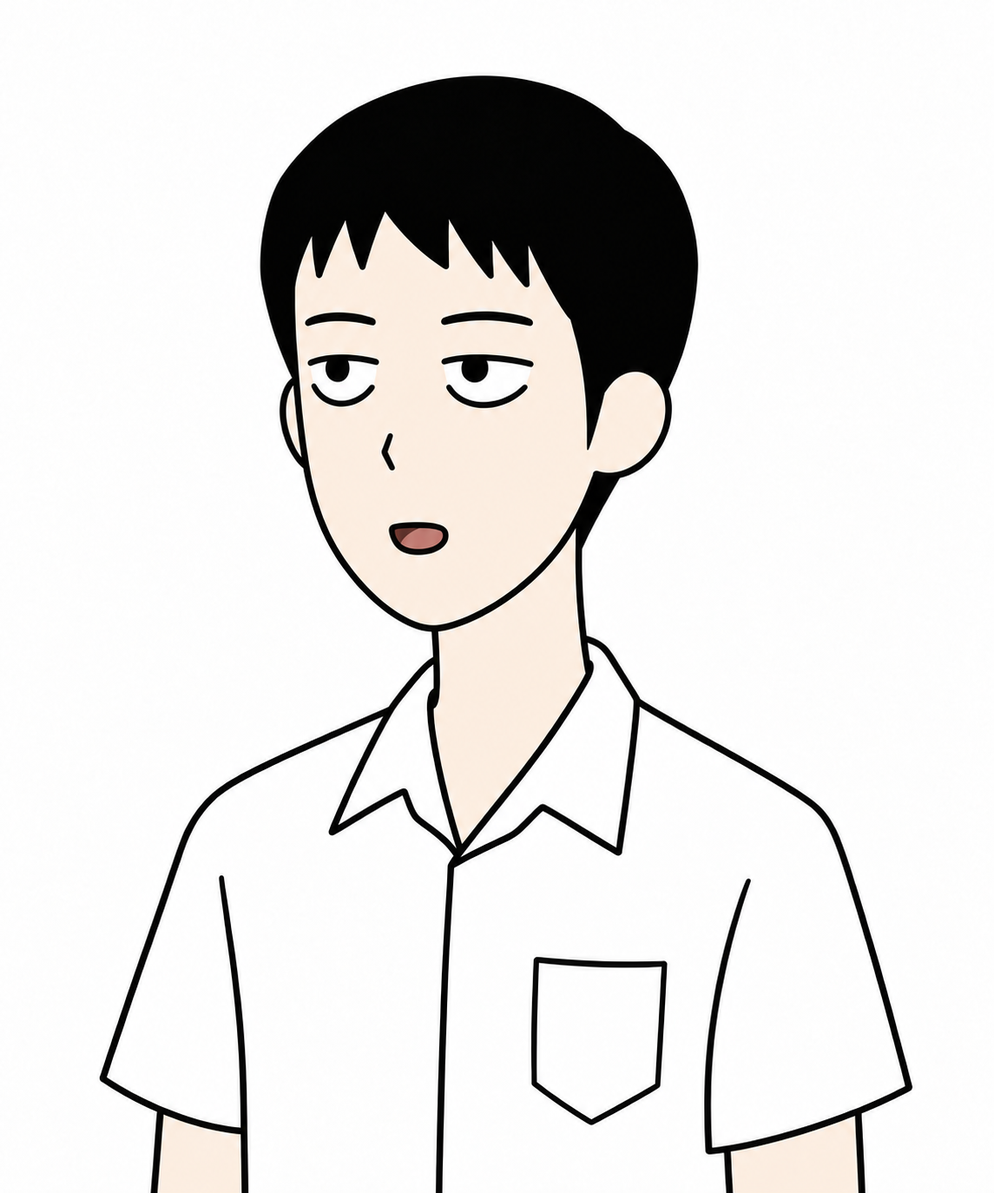
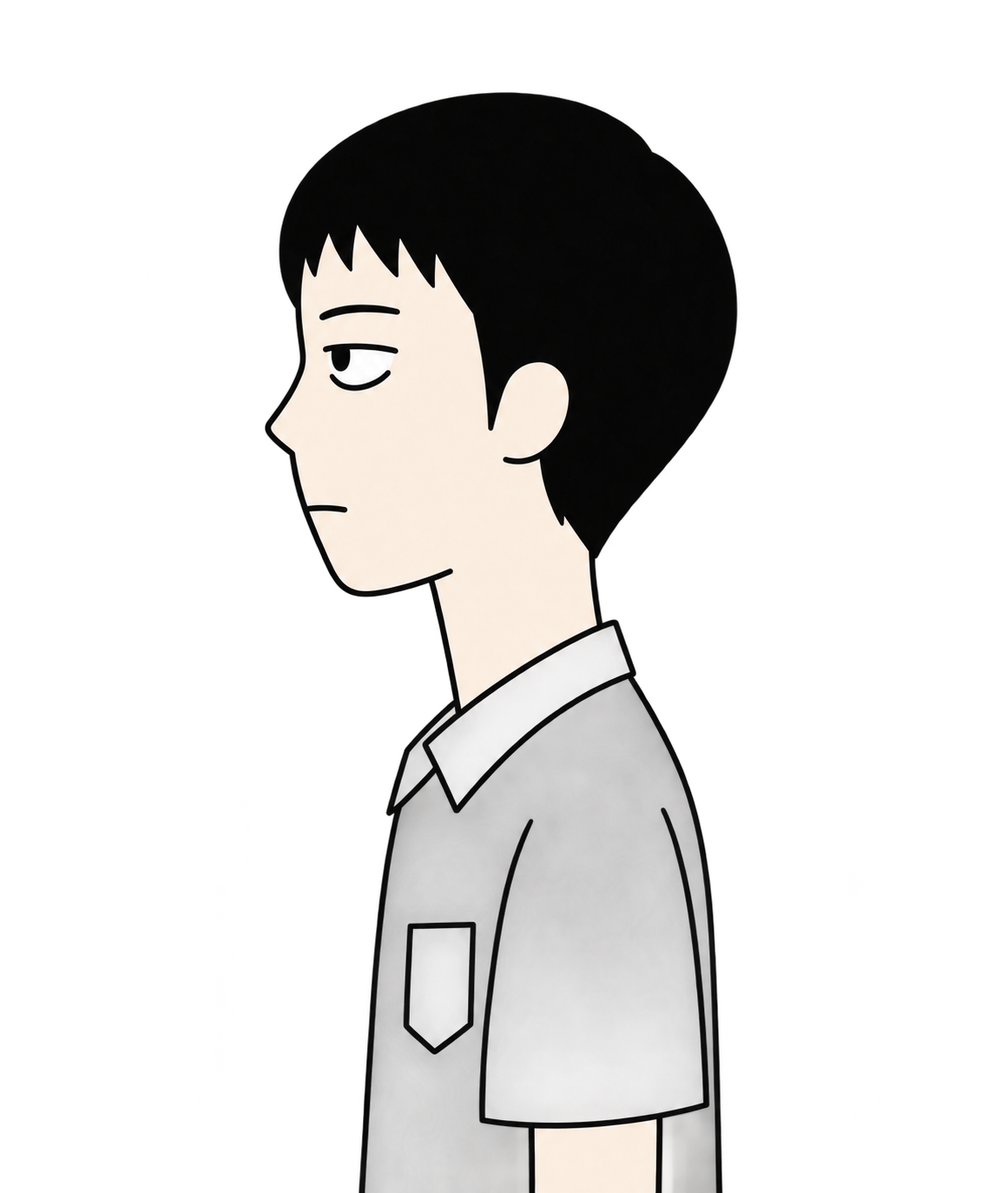
update

diff --git a/PROJECT_STATE.md b/PROJECT_STATE.md
@@ -1,0 +1,165 @@
+# Project state and recovery handoff
+
+Handoff date: 2026-09-18 (Asia/Bangkok). Repository HEAD at audit: `4a23550`.
+Current project root: `D:\Projects\cartoons-firm-ai-generated`.
+The former root `D:\Personals\Projects\Films\Cartoons` is obsolete and must not be used operationally.
+
+## Purpose and authority
+
+Produce reusable visual assets, then animated shots, from 36 source comic/storyboard panels. The shot plan contains 66 shots grouped into 14 narrative scenes, with a provisional estimated runtime of 401.9 seconds. `06_scenes.json` contains 36 panel-level scene records; this differs intentionally from the narrative-scene grouping.
+
+`11_asset_manifest.json` is the primary authority for current asset IDs and statuses. Review files preserve human-review history but several have not been synchronized. Approved generated masters govern stable character identity and location continuity; source panels govern story-specific staging, pose, directionality, props, and emotion. Preserve approved identity when incidental source variation conflicts, unless the human requests a source-specific variant.
+
+Workflow: NOT_GENERATED -> GENERATED -> APPROVED. Generated assets require human review. Never auto-approve or modify approved assets without explicit human instruction. Generate only the requested asset and stop. Action references normally contain one character and minimal supporting furniture/props, not a complete scene. Add environments and other characters during shot blocking. Defer speed streaks, wind, dust, and motion accents to shots/video unless an FX asset is specifically requested. Reuse approved props and locations. Use deterministic compositing for important readable text. Do not invent dialogue for [INDISTINCT CHATTER].
+
+## Current production stage
+
+Stage 6 (secondary props) is partially complete. Stages 1-5 and inserted hospital continuity stage 3.5 are APPROVED according to the manifest. This is an asset-production checkpoint, not evidence of completed animated shots.
+
+| Stage | Scope | Manifest state |
+| --- | --- | --- |
+| 1 | Ah Lim and Ah Da young/afterlife masters | 14 approved |
+| 2 | Classroom and desk/chair lock | 6 approved |
+| 3 | Pilot support | 5 approved |
+| 3.5 | Elderly Ah Lim portrait/bed pose and hospital staff | 3 approved |
+| 4 | Remaining locations and canteen table set | 7 approved |
+| 5 | Six supporting portrait/action packs | 12 approved |
+| 6 | Secondary props | 2 approved, 2 generated, 3 not generated |
+
+Total: **54 manifest assets: 48 APPROVED, 3 GENERATED, 3 NOT_GENERATED**. Counts are manifest states, not a fresh approval or a guarantee of file correctness.
+
+## Audit findings — unresolved, no fixes applied
+
+1. **Watch deferred:** `PROP_01_WATCH` was reset from an invalid GENERATED state to `NOT_GENERATED` because its expected output and review files were missing after migration. It remains a low-priority deferred prop; no asset was regenerated. Regenerate only if SHOT_013 or SHOT_054 later requires a visible watch.
+2. **Profile repair completed:** The old approved `profile_left.png` was an accidental duplicate of `face_3q_talking.png`; it was preserved as `profile_left_obsolete_duplicate.png`. The corrected true viewer-left profile was human-reviewed and restored to `APPROVED` for `CHAR_01_PROFILE_LEFT`. The obsolete backup remains non-canonical.
+3. **Outdated reviews:** all seven Ah Lim stage-1 master reviews and six Ah Da stage-1 reviews (all except seated-neutral) still state GENERATED or REVIEW_REQUIRED despite APPROVED manifest status. Treat them as stale history, not authority to revoke approval. Their exact IDs are listed below. `LOC_01_FRONT` also retains a superseded approval-required sentence inside a review that records explicit approval.
+4. **Obsolete visitor assets:** `assets/extras/hospital_visitors/group.png` and `group_review.md` are unreferenced remnants. They are not canonical or part of the pending manifest queue. Preserve them on disk. `EXTRA_HOSPITAL_STAFF_GROUP` is approved and present. Visitor wording also survives in `06_scenes.json`, hospital shots in `07_shot_list.md`/`08_shot_list.json`, `10_asset_design_plan.md`, and the bed/tubing review.
+5. **Stale identity mapping:** `03_character_bible.md`, `06_scenes.json`, `07_shot_list.md`, `08_shot_list.json`, `10_asset_design_plan.md`, and `12_generation_queue.md` still map Kim Fook to CHAR_08 and Anna to CHAR_09. Current manifest and files correctly map Anna to CHAR_08, with no CHAR_09 entries or folder. Kim Fook remains in source panel 25 / SHOT_044 but has no current dedicated manifest pack. This is an unresolved coverage/mapping gap, not authorization to reuse Anna or create CHAR_09.
+6. **Stale queue:** `12_generation_queue.md` still lists every planned entry as NOT_GENERATED, includes obsolete Kim Fook/CHAR_09 paths, and omits the inserted elderly/staff assets. Use its stage order only after checking the current manifest; do not execute it literally.
+7. **Stale shot dependencies:** examples in the manifest/queue include attendance paper assigned SHOT_012 although the roll-call panel is SHOT_011; watch assigned SHOT_013/054 although watch panels 10/31 map to SHOT_018/019 and SHOT_057/058; LOC_02 includes SHOT_041 (May/classroom) instead of Li Jie's SHOT_042/043; gate includes SHOT_057/058 (canteen) while gate panel 32 starts SHOT_059. Validate dependencies against source panels and the shot list before shot work. SHOT_044's LOC_01 assignment also needs source-specific railing staging review.
+8. **Stale descriptive notes:** CHAR_05_PORTRAIT's manifest notes describe a curled mattress action although its name/path/review establish a portrait. Some approved May, Li Jie, and meal entries retain 'human approval required' wording. Explicit status remains authoritative.
+9. **Whiteboard approved:** `PROP_09_WHITEBOARD` is now APPROVED. Its source text matches `36.jpg`, geometry is acceptable, and the source-ambiguous `5l` class glyph was accepted by human review.
+10. **Downstream planning is provisional:** vignette `narration_exact` fields point to the transcript rather than containing final narration, and several lengthy captions have short provisional shot durations. Do not treat the runtime estimate as a finalized narrated cut. `05_continuity_report.md` also contains a farewell description inconsistent with the shot list (it says the guide departs and the black-haired student remains at 33->35); check original panels before blocking.
+
+### Integrity and missing-review checks
+
+- All 49 approved output paths exist and are nonempty. All have corresponding review files.
+- Of two generated outputs, the whiteboard exists with a review; the watch and its review are missing.
+- The three NOT_GENERATED output files and their reviews are absent, as expected at that status: attendance paper, basketball/hoop, railing.
+- Assets directory contains 52 PNGs and 51 review files: 51 manifest-linked image/review pairs plus the obsolete visitor pair and the obsolete profile backup.
+- No duplicate manifest asset IDs or output paths. No duplicate canonical character identities found; young/elderly CHAR_01 are intentional variants. The one byte-duplicate image pair is described above.
+- All 36 numbered source panels exist. No obsolete operational root reference was found in the existing text files searched. Existing project files were left untouched.
+- Reviewed the twelve numbered production documents, the complete assets inventory, and all 51 review files. Parsed scene/shot/manifest JSON and checked file paths, statuses, duplicate hashes, and historical references. Targeted visual inspection covered the duplicated Ah Lim image, whiteboard, and source panel 36. This was not a new visual approval pass over every asset.
+
+## Historical corrections and continuity locks
+
+- CHAR_01 is Ah Lim; CHAR_02 is Ah Da. Young/afterlife Ah Lim and 90+ hospital Ah Lim are the same person with intentionally separate production references. Do not mix their age traits or remove the elderly references.
+- Jenny CHAR_03_ACTION is confirmed APPROVED in both manifest and review: blue outfit, ordinary classroom desk, exactly one handheld microphone.
+- Ah Guang: quiet window-directed seated action; no photography equipment; facial hatch marks are not identity features.
+- Huang Ming: pale brown short messy hair; peaceful curled side-lying action, head upper-right and legs lower-left as in panel 22; do not mirror. Temporary mattress support in the action does not replace the approved three-layer mattress prop.
+- May: black hair tied back, blue sleeveless outfit, intense desk crying.
+- Li Jie: youthful healthy appearance, exuberant leftward running/shouting; motion FX deferred.
+- Anna: CHAR_08, youthful tomboy, short sandy/light-brown spiky hair, blue sleeveless top, simplified athletic build; approved jump/reach action with one basketball. Do not glamorize/feminize or recreate CHAR_09.
+- Hospital staff replace the obsolete visitor interpretation. Keep staff anonymous and generic.
+- Classroom: board at front, windows left when facing board, door right. LOC_07 corridor is separate geometry. Approved reunion setup's minor blocking differences and field master's small goal detail were explicitly accepted; do not undo them.
+
+## Current update
+
+`PROP_07_BASKETBALL_HOOP` is now APPROVED at `assets/props/PROP_07_basketball_hoop/master.png`. Human approval covered its backboard geometry, rim and net, support structure, single basketball, school-court design, basketball-court visual-language compatibility, and suitability for `SHOT_045`.
+
+`PROP_08_RAILING` has been generated at `assets/props/PROP_08_railing/master.png` from manifest source `25.jpg` for `SHOT_044` and is awaiting human review. No other asset was generated.
+
+## Recommended next task
+
+First perform a human-directed recovery review of the missing watch and the duplicated approved Ah Lim profile, seeking the intended original files/backups before considering regeneration. Review the pending whiteboard and resolve its class-label ambiguity before approval. Reconcile stale identity/shot metadata in a separately authorized task before shot generation. None of these changes were performed during bootstrap.
+
+After those issues are resolved and the human explicitly selects one asset, the first ungenerated Stage 6 queue item is `PROP_02_ATTENDANCE_PAPER`; then `PROP_07_BASKETBALL_HOOP` and `PROP_08_RAILING` remain. Assess whether the approved court and Anna action already provide sufficient hoop/ball references before creating a redundant prop. Do not automatically advance this queue.
+
+## Exact manifest inventory at handoff
+
+The following tables are a snapshot; re-read the live manifest before acting. Paths are relative to the current project root.
+
+### APPROVED
+
+| Asset ID | Stage | Output path | File present |
+| --- | --- | --- | --- |
+| CHAR_01_FACE_FRONT_NEUTRAL | 1 | assets/characters/CHAR_01_Ah_Lim/masters/face_front_neutral.png | Yes |
+| CHAR_01_FACE_3Q_TALKING | 1 | assets/characters/CHAR_01_Ah_Lim/masters/face_3q_talking.png | Yes |
+| CHAR_01_PROFILE_LEFT | 1 | assets/characters/CHAR_01_Ah_Lim/masters/profile_left.png | Yes |
+| CHAR_01_FULL_BODY_FRONT | 1 | assets/characters/CHAR_01_Ah_Lim/masters/full_body_front.png | Yes |
+| CHAR_01_FULL_BODY_3Q | 1 | assets/characters/CHAR_01_Ah_Lim/masters/full_body_3q.png | Yes |
+| CHAR_01_FULL_BODY_SIDE | 1 | assets/characters/CHAR_01_Ah_Lim/masters/full_body_side.png | Yes |
+| CHAR_01_SEATED_NEUTRAL | 1 | assets/characters/CHAR_01_Ah_Lim/masters/seated_neutral.png | Yes |
+| CHAR_01_ELDERLY_HOSPITAL_PORTRAIT | 3.5 | assets/characters/CHAR_01_Ah_Lim/elderly/hospital_portrait.png | Yes |
+| CHAR_01_ELDERLY_BED_POSE | 3.5 | assets/characters/CHAR_01_Ah_Lim/elderly/bed_pose.png | Yes |
+| EXTRA_HOSPITAL_STAFF_GROUP | 3.5 | assets/extras/hospital_staff/group.png | Yes |
+| CHAR_02_FACE_FRONT_NEUTRAL | 1 | assets/characters/CHAR_02_Ah_Da/masters/face_front_neutral.png | Yes |
+| CHAR_02_FACE_3Q_TALKING | 1 | assets/characters/CHAR_02_Ah_Da/masters/face_3q_talking.png | Yes |
+| CHAR_02_PROFILE_LEFT | 1 | assets/characters/CHAR_02_Ah_Da/masters/profile_left.png | Yes |
+| CHAR_02_FULL_BODY_FRONT | 1 | assets/characters/CHAR_02_Ah_Da/masters/full_body_front.png | Yes |
+| CHAR_02_FULL_BODY_3Q | 1 | assets/characters/CHAR_02_Ah_Da/masters/full_body_3q.png | Yes |
+| CHAR_02_FULL_BODY_SIDE | 1 | assets/characters/CHAR_02_Ah_Da/masters/full_body_side.png | Yes |
+| CHAR_02_SEATED_NEUTRAL | 1 | assets/characters/CHAR_02_Ah_Da/masters/seated_neutral.png | Yes |
+| LOC_01_MASTER_WIDE | 2 | assets/locations/LOC_01_classroom/masters/master_wide.png | Yes |
+| LOC_01_FRONT | 2 | assets/locations/LOC_01_classroom/masters/front.png | Yes |
+| LOC_01_WINDOW_SIDE | 2 | assets/locations/LOC_01_classroom/masters/window_side.png | Yes |
+| LOC_01_SEMICIRCLE | 2 | assets/locations/LOC_01_classroom/masters/semicircle.png | Yes |
+| PROP_03_DESK_CHAIR_MASTER | 2 | assets/props/PROP_03_desk_chair/master.png | Yes |
+| LOC_01_DOOR_SIDE | 2 | assets/locations/LOC_01_classroom/masters/door_side.png | Yes |
+| LOC_05_HOSPITAL_MASTER | 3 | assets/locations/LOC_05_hospital/masters/master_wide.png | Yes |
+| PROP_04_BED_TUBING | 3 | assets/props/PROP_04_hospital_bed/master.png | Yes |
+| CHAR_01_SHOCK_WAKE_POSE | 3 | assets/characters/CHAR_01_Ah_Lim/poses/wake_shocked.png | Yes |
+| CHAR_02_GREETING_POSE | 3 | assets/characters/CHAR_02_Ah_Da/poses/greeting.png | Yes |
+| LOC_01_REUNION_SETUP | 3 | assets/locations/LOC_01_classroom/variants/reunion_setup.png | Yes |
+| LOC_02_MASTER | 4 | assets/locations/LOC_02_field/masters/master_wide.png | Yes |
+| LOC_03_MASTER | 4 | assets/locations/LOC_03_gate/masters/master_wide.png | Yes |
+| LOC_04_MASTER | 4 | assets/locations/LOC_04_canteen/masters/master_wide.png | Yes |
+| LOC_06_MASTER | 4 | assets/locations/LOC_06_basketball_court/masters/master_wide.png | Yes |
+| LOC_07_MASTER | 4 | assets/locations/LOC_07_school_corridor/masters/master_wide.png | Yes |
+| LOC_03_FACADE_RUN | 4 | assets/locations/LOC_03_gate/variants/facade_run.png | Yes |
+| LOC_04_TABLE_SET | 4 | assets/locations/LOC_04_canteen/props/table_set.png | Yes |
+| CHAR_03_PORTRAIT | 5 | assets/characters/CHAR_03_Jenny/portrait.png | Yes |
+| CHAR_03_ACTION | 5 | assets/characters/CHAR_03_Jenny/action.png | Yes |
+| CHAR_04_PORTRAIT | 5 | assets/characters/CHAR_04_Ah_Guang/portrait.png | Yes |
+| CHAR_04_ACTION | 5 | assets/characters/CHAR_04_Ah_Guang/action.png | Yes |
+| CHAR_05_PORTRAIT | 5 | assets/characters/CHAR_05_Huang_Ming/portrait.png | Yes |
+| CHAR_05_ACTION | 5 | assets/characters/CHAR_05_Huang_Ming/action.png | Yes |
+| CHAR_06_PORTRAIT | 5 | assets/characters/CHAR_06_May/portrait.png | Yes |
+| CHAR_06_ACTION | 5 | assets/characters/CHAR_06_May/action.png | Yes |
+| CHAR_07_PORTRAIT | 5 | assets/characters/CHAR_07_Li_Jie/portrait.png | Yes |
+| CHAR_07_ACTION | 5 | assets/characters/CHAR_07_Li_Jie/action.png | Yes |
+| CHAR_08_PORTRAIT | 5 | assets/characters/CHAR_08_Anna/portrait.png | Yes |
+| CHAR_08_ACTION | 5 | assets/characters/CHAR_08_Anna/action.png | Yes |
+| PROP_05_CANTEEN_MEAL | 6 | assets/props/PROP_05_canteen_meal/master.png | Yes |
+| PROP_06_MATTRESS_STACK | 6 | assets/props/PROP_06_mattress_stack/master.png | Yes |
+
+### GENERATED
+
+| Asset ID | Stage | Output path | File present |
+| --- | --- | --- | --- |
+| PROP_01_WATCH | 6 | assets/props/PROP_01_watch/master.png | No |
+| PROP_09_WHITEBOARD | 6 | assets/props/PROP_09_whiteboard/master.png | Yes |
+
+### NOT_GENERATED
+
+| Asset ID | Stage | Output path | File present |
+| --- | --- | --- | --- |
+| PROP_02_ATTENDANCE_PAPER | 6 | assets/props/PROP_02_attendance_paper/master.png | No |
+| PROP_07_BASKETBALL_HOOP | 6 | assets/props/PROP_07_basketball_hoop/master.png | No |
+| PROP_08_RAILING | 6 | assets/props/PROP_08_railing/master.png | No |
+
+### Approved assets with stale review status
+
+- CHAR_01_FACE_FRONT_NEUTRAL: review says GENERATED; manifest remains APPROVED.
+- CHAR_01_FACE_3Q_TALKING: review says REVIEW_REQUIRED; manifest remains APPROVED.
+- CHAR_01_PROFILE_LEFT: corrected replacement is human-reviewed and APPROVED. The obsolete duplicate backup is retained and is not canonical.
+- CHAR_01_FULL_BODY_FRONT: review says REVIEW_REQUIRED; manifest remains APPROVED.
+- CHAR_01_FULL_BODY_3Q: review says REVIEW_REQUIRED; manifest remains APPROVED.
+- CHAR_01_FULL_BODY_SIDE: review says REVIEW_REQUIRED; manifest remains APPROVED.
+- CHAR_01_SEATED_NEUTRAL: review says REVIEW_REQUIRED; manifest remains APPROVED.
+- CHAR_02_FACE_FRONT_NEUTRAL: review says REVIEW_REQUIRED; manifest remains APPROVED.
+- CHAR_02_FACE_3Q_TALKING: review says REVIEW_REQUIRED; manifest remains APPROVED.
+- CHAR_02_PROFILE_LEFT: review says REVIEW_REQUIRED; manifest remains APPROVED.
+- CHAR_02_FULL_BODY_FRONT: review says REVIEW_REQUIRED; manifest remains APPROVED.
+- CHAR_02_FULL_BODY_3Q: review says REVIEW_REQUIRED; manifest remains APPROVED.
+- CHAR_02_FULL_BODY_SIDE: review says REVIEW_REQUIRED; manifest remains APPROVED.

diff --git a/assets/characters/CHAR_01_Ah_Lim/masters/profile_left_review.md b/assets/characters/CHAR_01_Ah_Lim/masters/profile_left_review.md
@@ -2,23 +2,27 @@
 
 Generated file: `assets/characters/CHAR_01_Ah_Lim/masters/profile_left.png`
 
-Source references: `face_front_neutral.png`, `face_3q_talking.png`, `full_body_front.png`, `10.jpg`
+Source references: `face_front_neutral.png`, `face_3q_talking.png`, `full_body_side.png`, `10.jpg`
 
-Status: REVIEW_REQUIRED
+Status: APPROVED
+
+Human review result: APPROVED. The corrected true left-facing profile was human-reviewed and approved for production use.
 
 ## Evaluation
 
-- Forehead continuity: consistent with the approved frontal and 3/4 masters.
-- Nose continuity: simple, compact nose silhouette; no elongated realistic nose introduced.
-- Chin/jaw continuity: narrow jaw and compact chin remain consistent with Ah Lim’s approved identity.
-- Ear position: readable and naturally aligned in strict side profile.
-- Eye placement: one eye is meaningfully visible, as required for a profile view.
-- Hair silhouette: short black hair volume is preserved.
-- Fringe transition: irregular pointed fringe remains recognizable without a side part or increased volume.
-- Neck/head proportion: natural alignment with the upper-shoulder crop.
-- Uniform consistency: white collared school shirt matches the approved master treatment.
-- Overall identity: clearly the same Ah Lim design rotated into a left-facing profile; nose points toward the viewer’s left.
+- True left-profile geometry: PASS. The head is shown in a genuine side view with the nose silhouette pointing toward the viewer’s left.
+- Ah Lim identity: PASS. The narrow pale face, black pointed hair, simplified anatomy, and young/afterlife identity remain consistent with `face_front_neutral.png` and `face_3q_talking.png`.
+- Hair consistency: PASS. The short black pointed fringe and compact hair mass remain recognizable without redesign.
+- Nose / jaw profile: PASS. The nose projects as a clear side silhouette; the jaw and chin retain the approved narrow Ah Lim proportions.
+- Ear placement: PASS. One near ear is clearly visible in the expected side-profile position.
+- Eye placement: PASS. Only the appropriate near eye is visible; the image does not read as frontal or three-quarter.
+- Apparent age: PASS. The character remains a young/afterlife Ah Lim with no age drift.
+- Absence of elderly contamination: PASS. No wrinkles, sparse elderly hair, gaunt hospital traits, or other elderly references are present.
+- Differentiation from `face_3q_talking.png`: PASS. The replacement is a strict left-facing profile with one visible eye and a closed mouth, rather than a three-quarter talking view.
+- Neutral expression: PASS. Mouth closed, eye and eyebrow relaxed, with no shock or talking expression.
+- Directional consistency with `full_body_side.png` and `10.jpg`: PASS. The face and upper body face toward the viewer’s left and are not mirrored.
+- Overall style consistency: PASS. Clean 2D line art, matching line-weight family, restrained flat colors, minimal shading, and simplified comic anatomy are preserved.
 
 ## Remaining review items
 
-Human review should confirm the exact profile angle and the continuity of the far-side facial contour before approval. The manifest remains `GENERATED`, not `APPROVED`.
+The corrected replacement is the canonical profile. The previous accidental three-quarter duplicate is obsolete and non-canonical; it is preserved only as `profile_left_obsolete_duplicate.png`.

diff --git a/assets/props/PROP_09_whiteboard/master_review.md b/assets/props/PROP_09_whiteboard/master_review.md
@@ -1,24 +1,34 @@
 # PROP_09_WHITEBOARD Review
 
-Status: REVIEW_REQUIRED
+Status: APPROVED
 
-Compared against `36.jpg` and the approved `LOC_01_FRONT` classroom reference.
+Human review result: APPROVED. The whiteboard asset is approved for production use.
+
+Compared against the actual `master.png`, `36.jpg`, and the approved `LOC_01_FRONT` classroom reference.
 
 - Board proportions: PASS — the isolated rectangular board has the broad, low-detail proportions established by `36.jpg`.
 - Frame consistency: PASS — the thin dark frame and lower tray remain compatible with the approved classroom whiteboard family.
 - Classroom scale compatibility: PASS — the board is sized for placement within the approved classroom geometry.
-- Source text fidelity: PASS — the exact source-supported text was composited deterministically from `36.jpg`.
-- Text readability: PASS — the farewell text is visibly present in `master.png` and every composited line is clean and readable.
-- Absence of invented wording: PASS — no wording beyond the source-supported farewell text was added.
+- Source text fidelity: PASS — the visible wording in `master.png` matches the legible wording in `36.jpg` exactly.
+- Text readability: PASS — all four lines in `master.png` are clearly readable at inspection resolution.
+- Absence of invented wording: PASS — no extra wording is visible.
 - Suitability for `SHOT_066`: PASS — the isolated board supports the classroom farewell composition.
 - Overall style consistency: PASS — clean 2D cartoon line art, restrained flat colors, and minimal shading are preserved.
 
-Exact text transcription used:
+## Text verification
+
+Exact source text visible in `36.jpg`:
 
 `Tất cả học sinh của lớp 5l cuối cùng cũng đã tốt nghiệp khỏi thế giới này. Xin vĩnh biệt!`
 
-Every visible word used in the final asset is confidently supported by `36.jpg`; no source text was guessed. The line breaks are layout-only and do not alter the transcription.
+Exact text visible in `master.png`:
 
-The current board proportions, frame, tray, white surface, and line-art geometry were preserved; only the missing writing layer was corrected. The final writing was compared directly against `36.jpg`.
+`Tất cả học sinh của lớp 5l cuối cùng cũng đã tốt nghiệp khỏi thế giới này. Xin vĩnh biệt!`
 
-Human approval is required before this asset is marked APPROVED.
+Wording match: PASS. Spelling match: PASS. Punctuation match: PASS for the legible period after `này` and final exclamation mark. Missing lines: none; all four text lines are present. Invented wording: none observed. Text is readable in the generated PNG.
+
+Class / board label: AMBIGUOUS but accepted by human review. The source glyph after `5` is visibly a lowercase `l`-like mark and is transcribed here as `l`; it could be confused with the digit `1` at this resolution. The generated PNG reproduces the same `5l`-like label.
+
+The current board proportions, frame, tray, white surface, and line-art geometry are compatible with `LOC_01_FRONT`: the isolated board is a broad horizontal rectangle with a thin dark frame and lower tray, matching the classroom board family and usable placement scale.
+
+The source text matches `36.jpg`, the geometry is acceptable, and the asset is APPROVED.

diff --git a/assets/props/PROP_07_basketball_hoop/master_review.md b/assets/props/PROP_07_basketball_hoop/master_review.md
@@ -1,0 +1,25 @@
+# PROP_07_BASKETBALL_HOOP Review
+
+Status: APPROVED
+
+Human review result: APPROVED. The human user approved this prop for production use.
+
+Generated for `SHOT_045` and compared against `26.jpg`, the approved `assets/locations/LOC_06_basketball_court/masters/master_wide.png`, and approved `assets/characters/CHAR_08_Anna/action.png` for scale only.
+
+- Backboard shape: PASS — simple opaque rectangular backboard with source-compatible low-detail geometry.
+- Rim position: PASS — restrained orange rim is attached at the lower portion of the backboard with a readable net.
+- Support structure: PASS — simple angular support pole/brace establishes the hoop structure without a court or building.
+- Hoop proportions: PASS — backboard, rim, net, and pole form a coherent school-hoop scale compatible with LOC_06_MASTER.
+- Basketball scale: PASS — exactly one separate simple orange basketball is included for scale continuity.
+- Anna jump/reach compatibility: PASS — the rim/backboard and single ball are proportioned for the approved Anna action; Anna is not included.
+- LOC_06_MASTER compatibility: PASS — the design follows the approved court’s simple rectangular backboard, orange rim, net, and pale support family.
+- Source-comic simplicity: PASS — clean 2D line art, restrained flat colors, minimal shading, and low detail are preserved.
+- Professional-arena redesign: PASS — no arena branding, heavy padding, glossy sports styling, or competition-system detailing is present.
+- Glass competition backboard: PASS — the backboard reads as a simple opaque school backboard, not glass.
+- Multiple basketballs: PASS — exactly one basketball is visible.
+- Characters/court: PASS — no Anna, other character, basketball court, school, trees, or buildings are included.
+- Realism check: PASS — the asset remains a simplified comic prop rather than photorealistic or 3D-rendered.
+- Suitability for `SHOT_045`: PASS — isolated prop is suitable for later placement into the approved LOC_06 basketball court with Anna’s action.
+- Overall visual-style consistency: PASS — matches the established production asset language.
+
+Human approval covered the backboard geometry, rim and net, support structure, exactly one basketball, simple school-court design, compatibility with the approved basketball-court visual language, and suitability for `SHOT_045`.

diff --git a/assets/props/PROP_08_railing/master_review.md b/assets/props/PROP_08_railing/master_review.md
@@ -1,0 +1,20 @@
+# PROP_08_RAILING Review
+
+Status: REVIEW_REQUIRED
+
+Generated for `SHOT_044` using the exact manifest source image `25.jpg`. The required shot is `SHOT_044`; its manifest-defined associated approved location is `LOC_01` / the approved classroom master family.
+
+- Railing silhouette fidelity: PASS — the isolated section preserves the source’s long horizontal upper rail, lower base rail, repeated vertical bars, and end posts.
+- Post / rail spacing: PASS — vertical bars are evenly spaced and clearly readable for later compositing.
+- Height / scale: PASS — the railing has a practical school-height proportion and a complete reusable section.
+- Orientation: PASS — a straight-on presentation keeps the repeating structure legible and easy to place.
+- Source-comic simplicity: PASS — clean 2D outlines, restrained gray/off-white flat colors, minimal shading, and low detail are maintained.
+- Associated location compatibility: PASS — the simple school railing is suitable for the LOC_01 shot staging specified by the manifest and SHOT_044.
+- Suitability for compositing: PASS — the prop is isolated on a plain background with no baked-in characters or environment.
+- Geometry invention check: REVIEW_REQUIRED — the source shows only a partial railing in context, so the repeated section length and simplified end-post treatment are derived for reuse; no decorative geometry beyond the source-supported structure was added.
+- Modern styling check: PASS — it does not resemble ornate metalwork or glossy modern architecture.
+- Unnecessary environment content: PASS — no classroom, school exterior, desks, characters, text, or unrelated props are included.
+- Suitability for `SHOT_044`: PASS — the railing is ready as a reusable blocking reference for the Kim Fook vignette staging, pending human approval.
+- Overall visual-style consistency: PASS — the asset matches the established production language.
+
+Human approval is required. This asset remains `GENERATED` and must not be treated as approved.

diff --git a/AGENTS.md b/AGENTS.md
@@ -1,0 +1,13 @@
+# Project operating instructions
+
+- Read `PROJECT_STATE.md` first, then `11_asset_manifest.json` before acting. The manifest governs current asset IDs and statuses; older plans and review notes may be stale.
+- Use only `D:\Projects\cartoons-firm-ai-generated` as the project root. Do not rewrite historical paths unless an operational path is actually broken.
+- Workflow: `NOT_GENERATED` -> `GENERATED` -> `APPROVED`. Only explicit human approval permits approval; automated checks never do.
+- Never modify or regenerate an approved asset without explicit human instruction, including when an audit identifies a defect.
+- Generate only the explicitly requested asset, then stop. Do not advance the queue or expand the requested scope.
+- Use approved assets as canonical identity and spatial continuity references. Source panels `1.jpg` through `36.jpg` govern story-specific pose, staging, direction, props, and expression. Preserve source direction; do not accidentally mirror actions.
+- Keep young/afterlife Ah Lim separate from his elderly hospital references. Both are CHAR_01.
+- Anna is CHAR_08. Never recreate CHAR_09 Anna or treat obsolete CHAR_08/Kim Fook mappings as current. Kim Fook coverage is unresolved; do not assign an ID yourself.
+- Hospital extras are `EXTRA_HOSPITAL_STAFF_GROUP`. Never restore the obsolete visitor-group concept; leave stale files untouched unless deletion is explicitly authorized.
+- Keep action references isolated with minimal necessary support furniture. Defer motion FX to shots/video. Reuse approved props and locations; composite important text deterministically.
+- Consult the recovery findings before using the missing watch, duplicated Ah Lim profile, or stale shot dependencies. Report discrepancies without silently changing statuses.
